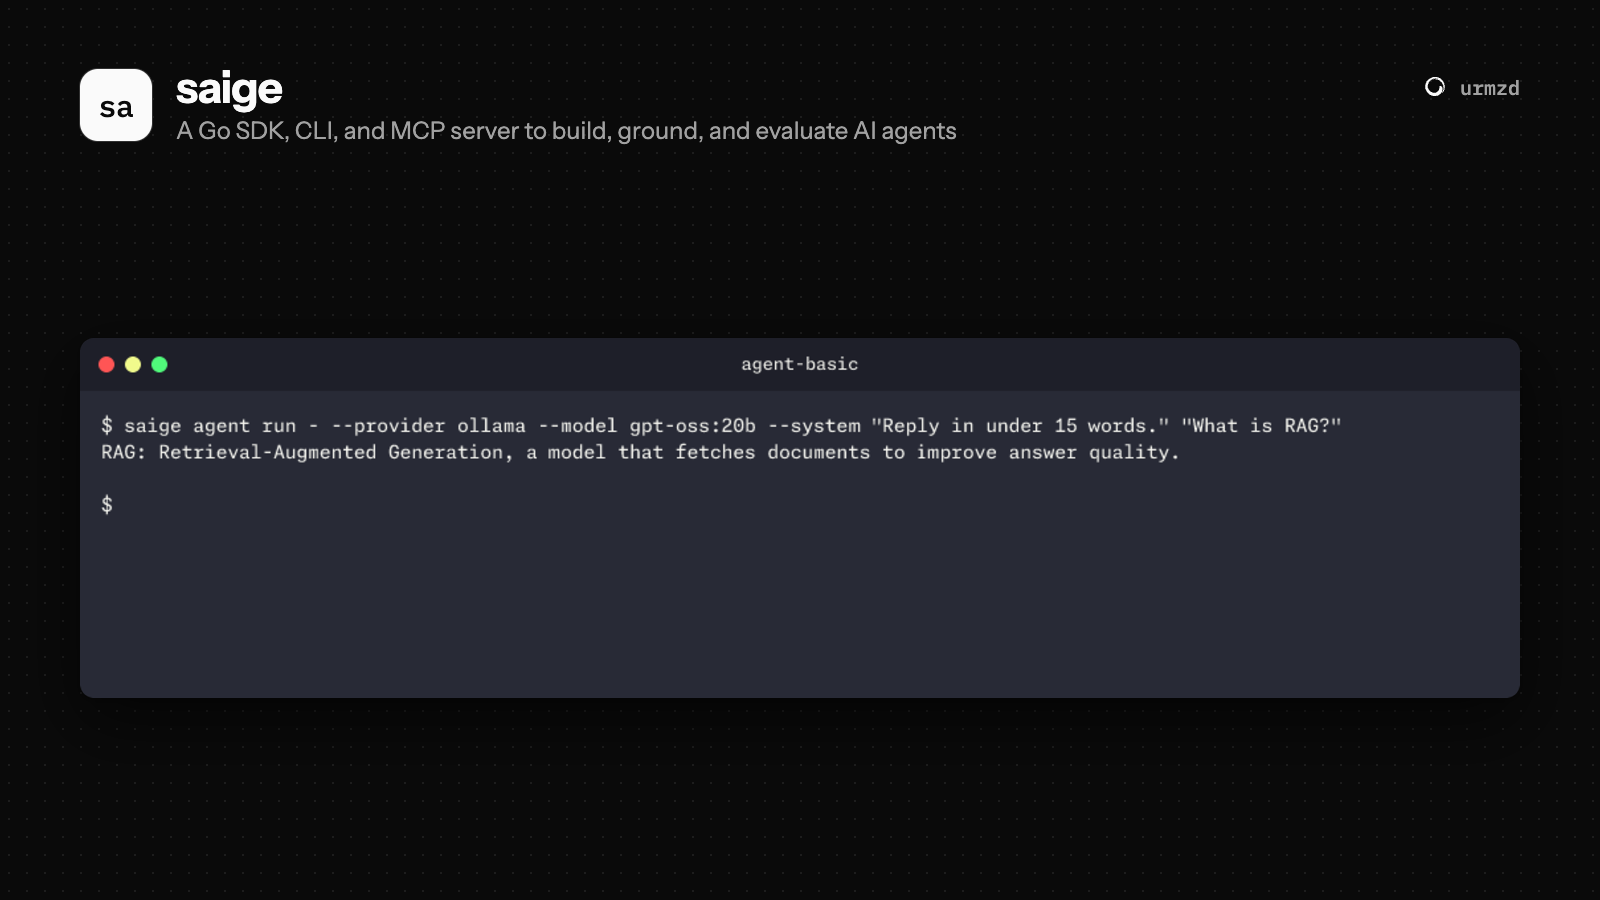
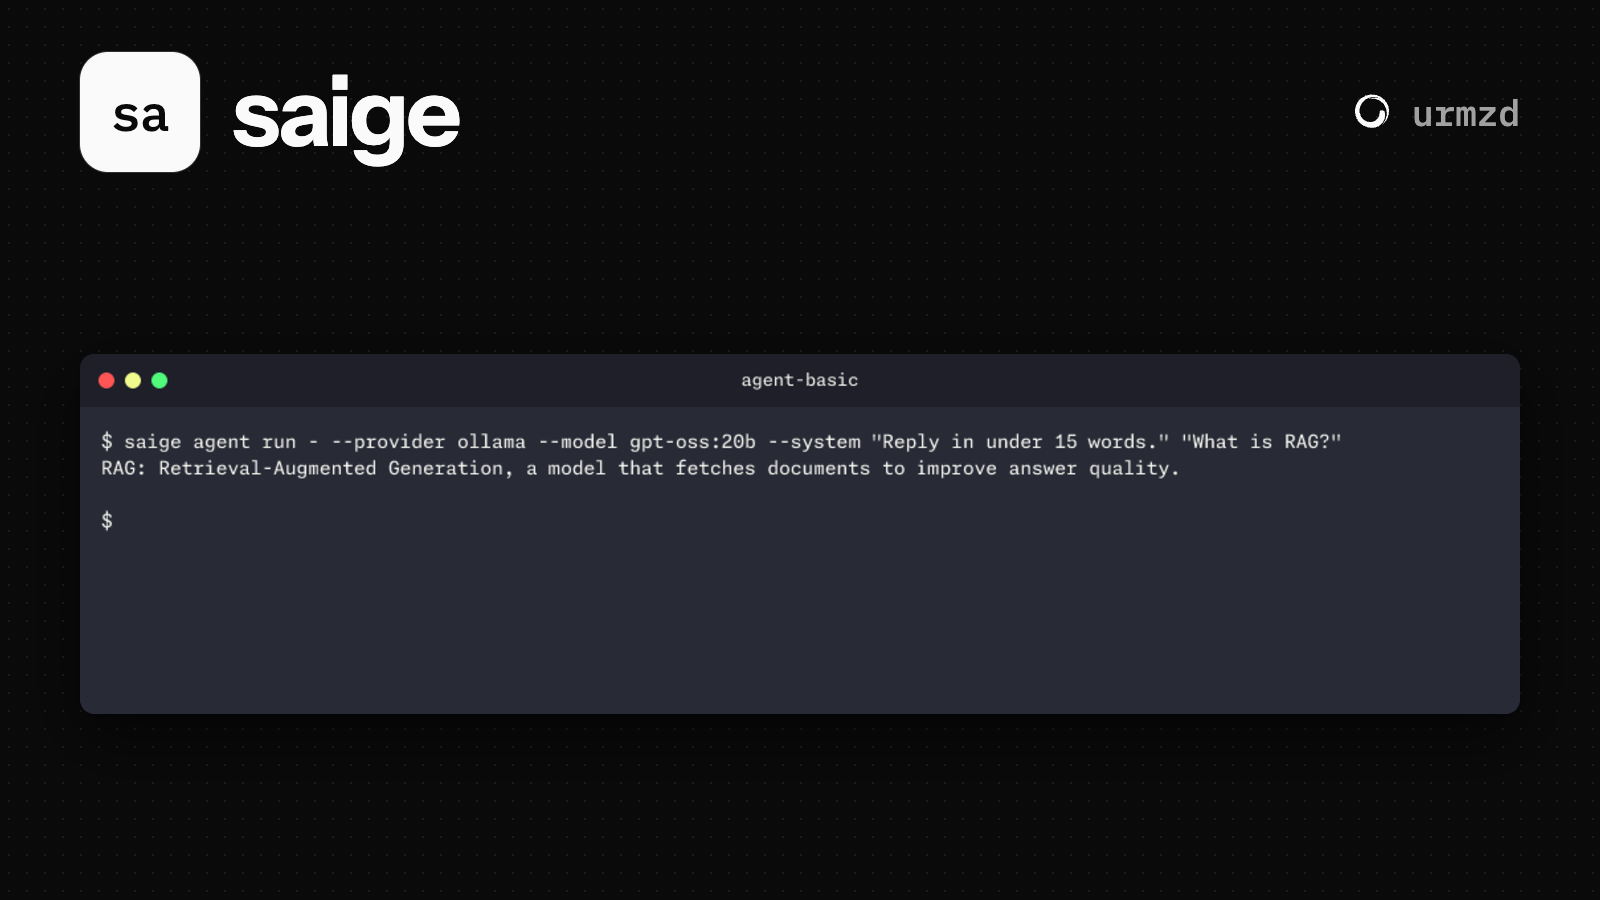
docs(showcase): legible hero and dark-mode card image (#178)
Regenerate showcase/hero-{light,dark}.png with a larger icon and name
and no tagline. SHOWCASE.md now sets the card description and
image_dark, so urmzd.com shows the dark hero in dark mode.

diff --git a/SHOWCASE.md b/SHOWCASE.md
@@ -1,3 +1,5 @@
 ---
+description: "A Go SDK, CLI, and MCP server to build, ground, and evaluate AI agents"
 image: showcase/hero-light.png
+image_dark: showcase/hero-dark.png
 ---
